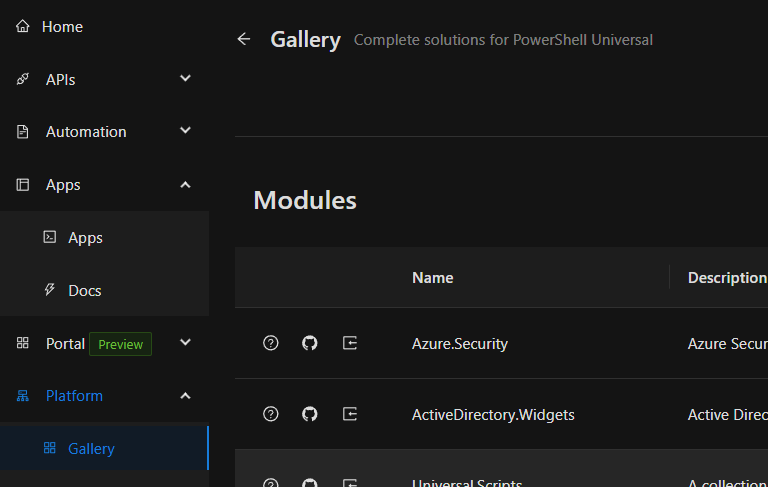
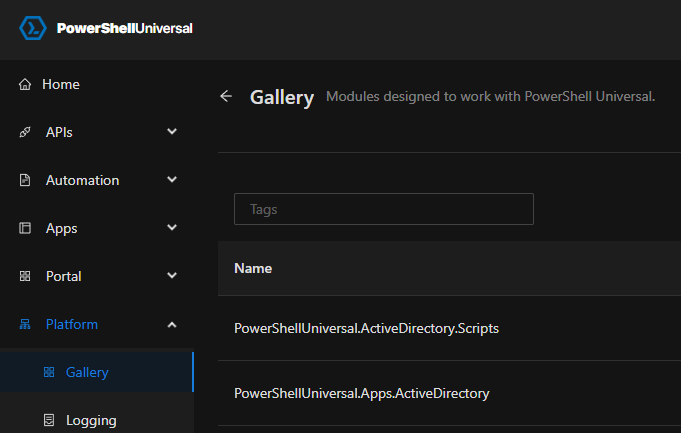
APIs.

diff --git a/README.md b/README.md
@@ -8,20 +8,11 @@ This repository is a collection of modules that you can use directly with PowerS
 
 ## Support
 
-These scripts are not supported through the general Ironman Software support agreement for PowerShell Universal. Bugs and feature requests should be made through this repository. 
+These modules are not supported through the general Ironman Software support agreement for PowerShell Universal. Bugs and feature requests should be made through this repository. 
 
 ## Usage
 
-These resources are published to the PowerShell Gallery. You can install them directly through PowerShell Universal or through PSResourceGet. You can also install the repository locally following the instructions below.
-
-### PowerShell 
-
-You can use this repository outside of PowerShell Universal by installing the release to your local machine. PowerShell Universal uses PSResourceGet. You will need to install this module.
-
-```powershell
-Install-Module -Name Microsoft.PowerShell.PSResourceGet -Force -SkipPublisherCheck -AllowClobber -Scope CurrentUser -ErrorAction SilentlyContinue
-Register-PSRepository -Name 'PSUScriptLibrary' -SourceLocation 'https://gallery.powershelluniversal.com/feed/index.json'
-```
+These resources are published to the PowerShell Gallery. You can install them directly through PowerShell Universal or through PSResourceGet. 
 
 ### PowerShell Universal v5
 
@@ -39,35 +30,11 @@ Solutions installed from the gallery will appear in the Modules page and their r
 
 This repository can be installed with PowerShell Universal v4 by registering it as a module repository.
  
-#### Installation
-
-PowerShell Universal uses PSResourceGet. You will need to install this module.
-
-```powershell
-Install-Module -Name Microsoft.PowerShell.PSResourceGet -Force -SkipPublisherCheck -AllowClobber -Scope CurrentUser -ErrorAction SilentlyContinue
-```
-
-To install this repository with PowerShell Universal v4, you can use the following command.
-
-```powershell
-Register-PSRepository -Name 'PSUScriptLibrary' -SourceLocation 'https://gallery.powershelluniversal.com/feed/index.json'
-```
-
 #### Add Resources to PSU
 
-You can add resources found in this gallery to your PSU instance by visiting the modules page.  Click Platform \ Modules \ Repositories and select the PSUScriptLibrary repository.
+You can add resources found in this gallery to your PSU instance by visiting the modules page.  Click Platform \ Modules \ Repositories and select the PSGallery repository.
 
 ![](/images/modules.png)
-
-### Offline Installation
-
-To install this repository offline, you can download the repository and register a folder a provider. 
-
-```powershell
-Invoke-WebRequest -Uri 'https://github.com/ironmansoftware/gallery/releases/download/1.0.0/library.zip' -OutFile 'library.zip'
-Expand-Archive -Path 'library.zip' -DestinationPath 'C:\gallery'
-Register-PSRepository -Name 'PSUScriptLibrary' -SourceLocation 'C:\gallery'
-```
 
 ## Contribution guidelines
 
@@ -106,19 +73,15 @@ PowerShellUniversal.Triggers.Slack
 PowerShellUniversal.Widgets.Weather
 ```
 
-Some modules do not follow this convention but we recommend it for discoverability.
+Some modules do not follow this convention, but we recommend it for discoverability.
 
 ### Documentation
 
-We prefer that you include comment based help. A `readme.md` is also useful to better describe your module or solution. The readme content will be displayed in PowerShell Universal.
+We prefer that you include comment based help. A `readme.md` is also useful to better describe your module or solution. The readme content will be displayed in PowerShell Universal and the PowerShell Universal Gallery.
 
 ### Tests
 
 We currently do not require tests but prefer any tests are written in Pester. We will run these tests during CI builds.
-
-### Building
-
-The repository is automatically build using the `build.ps1` script. It finds all PSD1 files and generates nuget packages for each module. These will be stored in the output folder. They should not be checked in. A .gitignore has been created to prevent this.
 
 ### Publishing to the PowerShell Gallery 
 